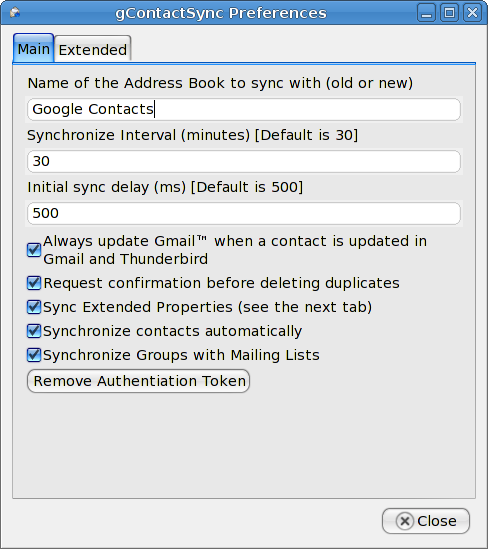
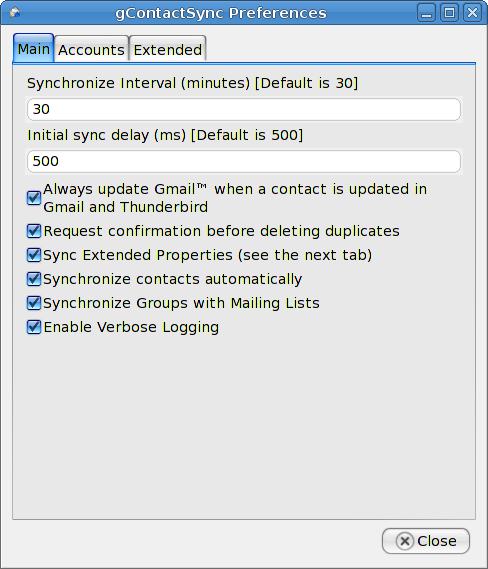
updated a few pages

Changed region(s): [[0.0, 0.0, 1.0, 0.7122], [0.0307, 0.898, 0.9836, 0.9909]]

diff --git a/www/preferences.html b/www/preferences.html
@@ -23,10 +23,11 @@
   <li><strong>Enable automatic synchronization (checked)</strong> - Check this to enable automatic synchronization. If it is disabled, Synchronize interval and Initial sync delay are ignored and the extension will only synchronize your contacts when you click the <strong>Sync</strong> button in the toolbar of the Address Book window. This is not present in the first test release.</li>
   <li><strong>Synchronize Groups with Mailing Lists</strong> - Check this to enable synchronizing Groups in Google Contacts with Mailing Lists in Thunderbird.  Please note that mailing lists are somewhat buggy.  <strong>If you delete an address book that contains a mailing list you <em>must restart Thunderbird</em> (not just the Address Book window) before doing anything else, especially synchronizing.</strong></li>
 </ol>
-
-<h3>Extended Preferences</h3>
-
+<h3>Accounts</h3>
 <p><img src="img/preferences_02.png"/></p>
+<p>This tab will help you to add, remove, or change accounts and the address books with which they are synchronized</p>
+<h3>Extended Preferences</h3>
+<p><img src="img/preferences_03.png"/></p>
 <p>Google allows storing 10 custom attributes, although you cannot see them from Gmail. I suggest you leave them alone unless you are familiar with the address book source code unless you want to replace something with <strong>Custom3</strong> or <strong>Custom4 </strong>or ask me. The values must be the name of the attribute in Thunderbird. Here are the defaults:</p>
 <ol>
   <li><strong>WebPage1</strong> - The work website</li>

diff --git a/www/index.html b/www/index.html
@@ -4,7 +4,8 @@
   <div class="infoTab" id="whats-new">
     <h5 class="infoHeader">What's New</h5>
     <ul>
-     <li>Version 0.1 beta 1 is out.  See the installation page.</li>
+     <li>Version 0.1.0 is coming soon with a new es-ES locale.</li>
+     <li>Version 0.1 beta 3 is out.  See the installation page.</li>
     </ul>
   </div>
 
@@ -13,6 +14,7 @@
     <ul>
       <li>Thanks to Mozdev for hosting this project!</li>
       <li><a href="http://gcontactsync.mozdev.org/tutorial.html">Flash Tutorial</a></li>
+      <li>Thanks to Guillermo Klew for helping translate this extension to Spanish</li>
     </ul>
   </div>
 </div>
